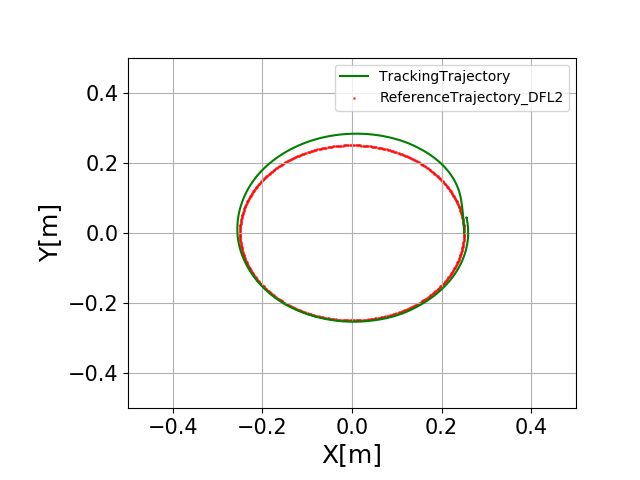
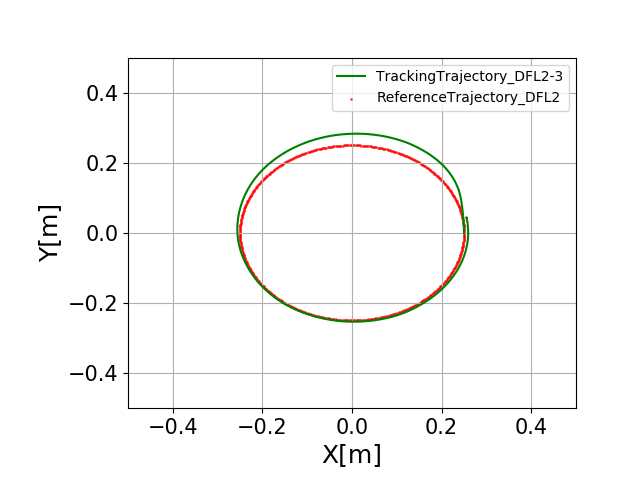
school

Changed region(s): [[0.5938, 0.125, 0.875, 0.2188], [0.5, 0.1562, 0.5312, 0.2188]]

diff --git a/csv/2csv_plot.py b/csv/2csv_plot.py
@@ -39,10 +39,10 @@ ax.set_xlabel("X[m]", fontsize=18)
 ax.set_ylabel("Y[m]", fontsize=18)
 
 # x and y Axis Limit
-#x_lim = 0.5
-#y_lim = 0.5
-#ax.set_xlim(-1 * x_lim, y_lim)
-#ax.set_ylim(-1 * x_lim, y_lim)
+x_lim = 0.5
+y_lim = 0.5
+ax.set_xlim(-1 * x_lim, y_lim)
+ax.set_ylim(-1 * x_lim, y_lim)
 
 # Position Adjustment
 plt.subplots_adjust(bottom=0.15)
